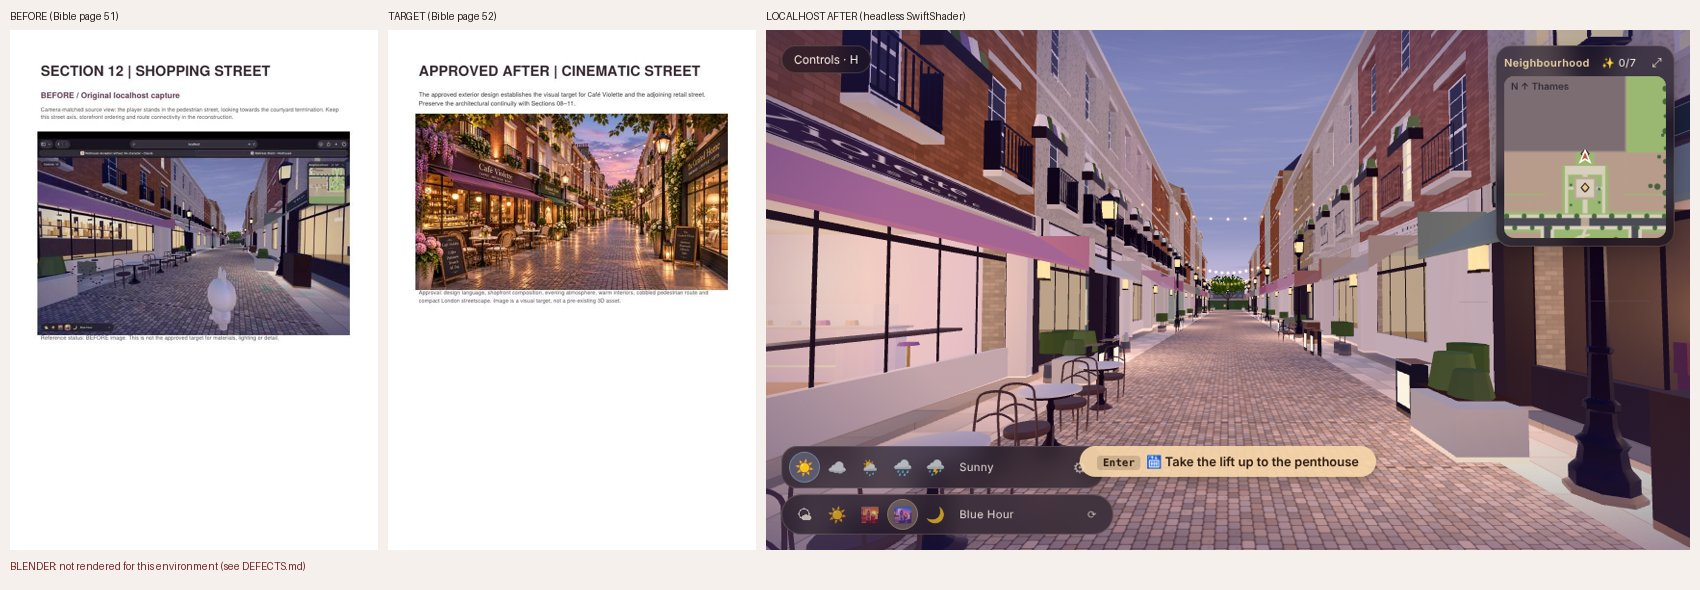
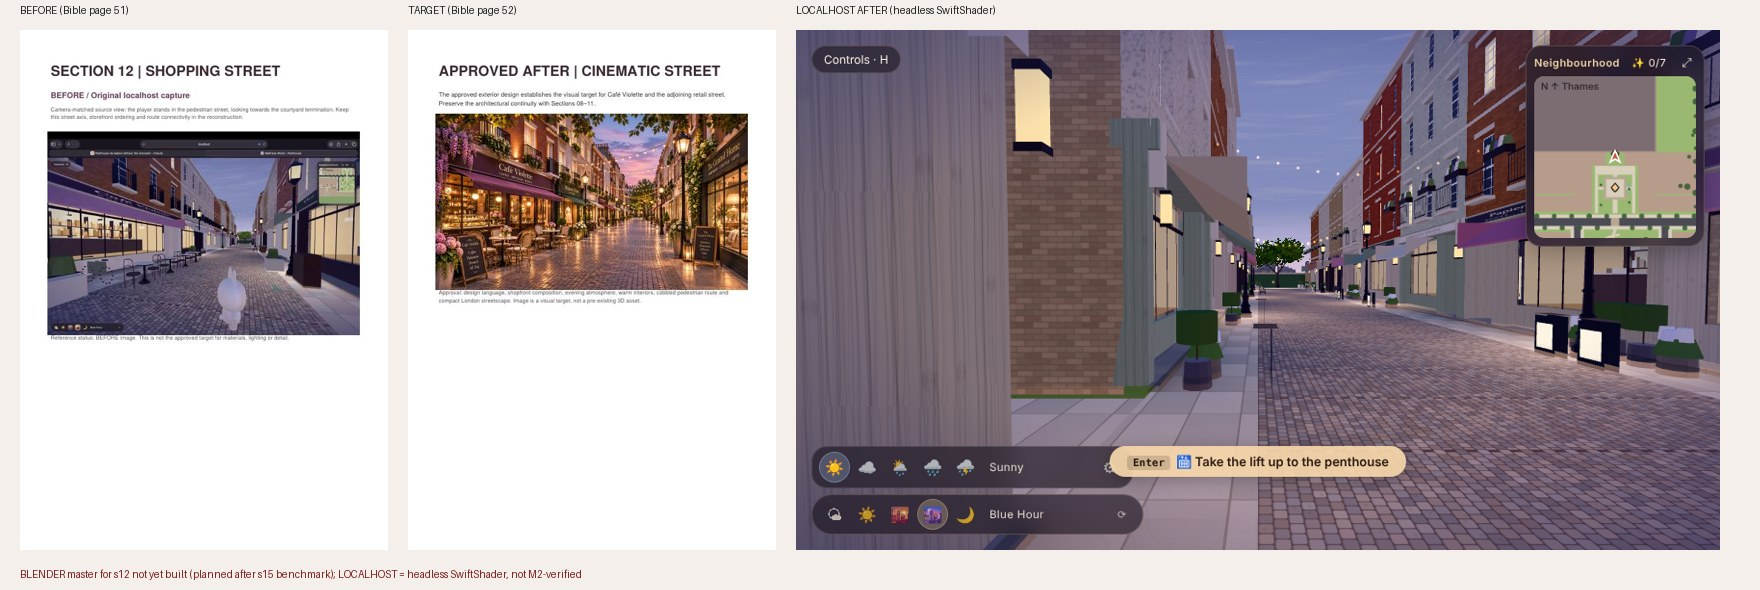
s12: lane blue-hour evidence + status
Claude-Session: https://claude.ai/code/session_017ZtboRbFUCo4FCo9fUW3pH

diff --git a/docs/bible/S12_STATUS.md b/docs/bible/S12_STATUS.md
@@ -1,0 +1,5 @@
+# s12 Shopping street (2026-11-12)
+Evidence: `evidence/s12_shopping_street.jpg` (BEFORE p.51 / TARGET p.52 / LOCALHOST blue hour, headless). Pose ≈ (-62, -85.2, 93.5) yaw 1.5708 (looking −x along the lane). Not claimed approved; not M2-verified.
+- Now uses Blender-baked sett/slab/brick/ashlar sets (cobbles show setts with joints and relief).
+- Present: string lights, awnings, café tables, planters, A-frame boards, facades with lit windows.
+- Gaps vs p.52: no wisteria curtain on the left façade, shopfront interiors shallow, no Blender master yet, trees at the lane end sparse, no bloom on lamps.
